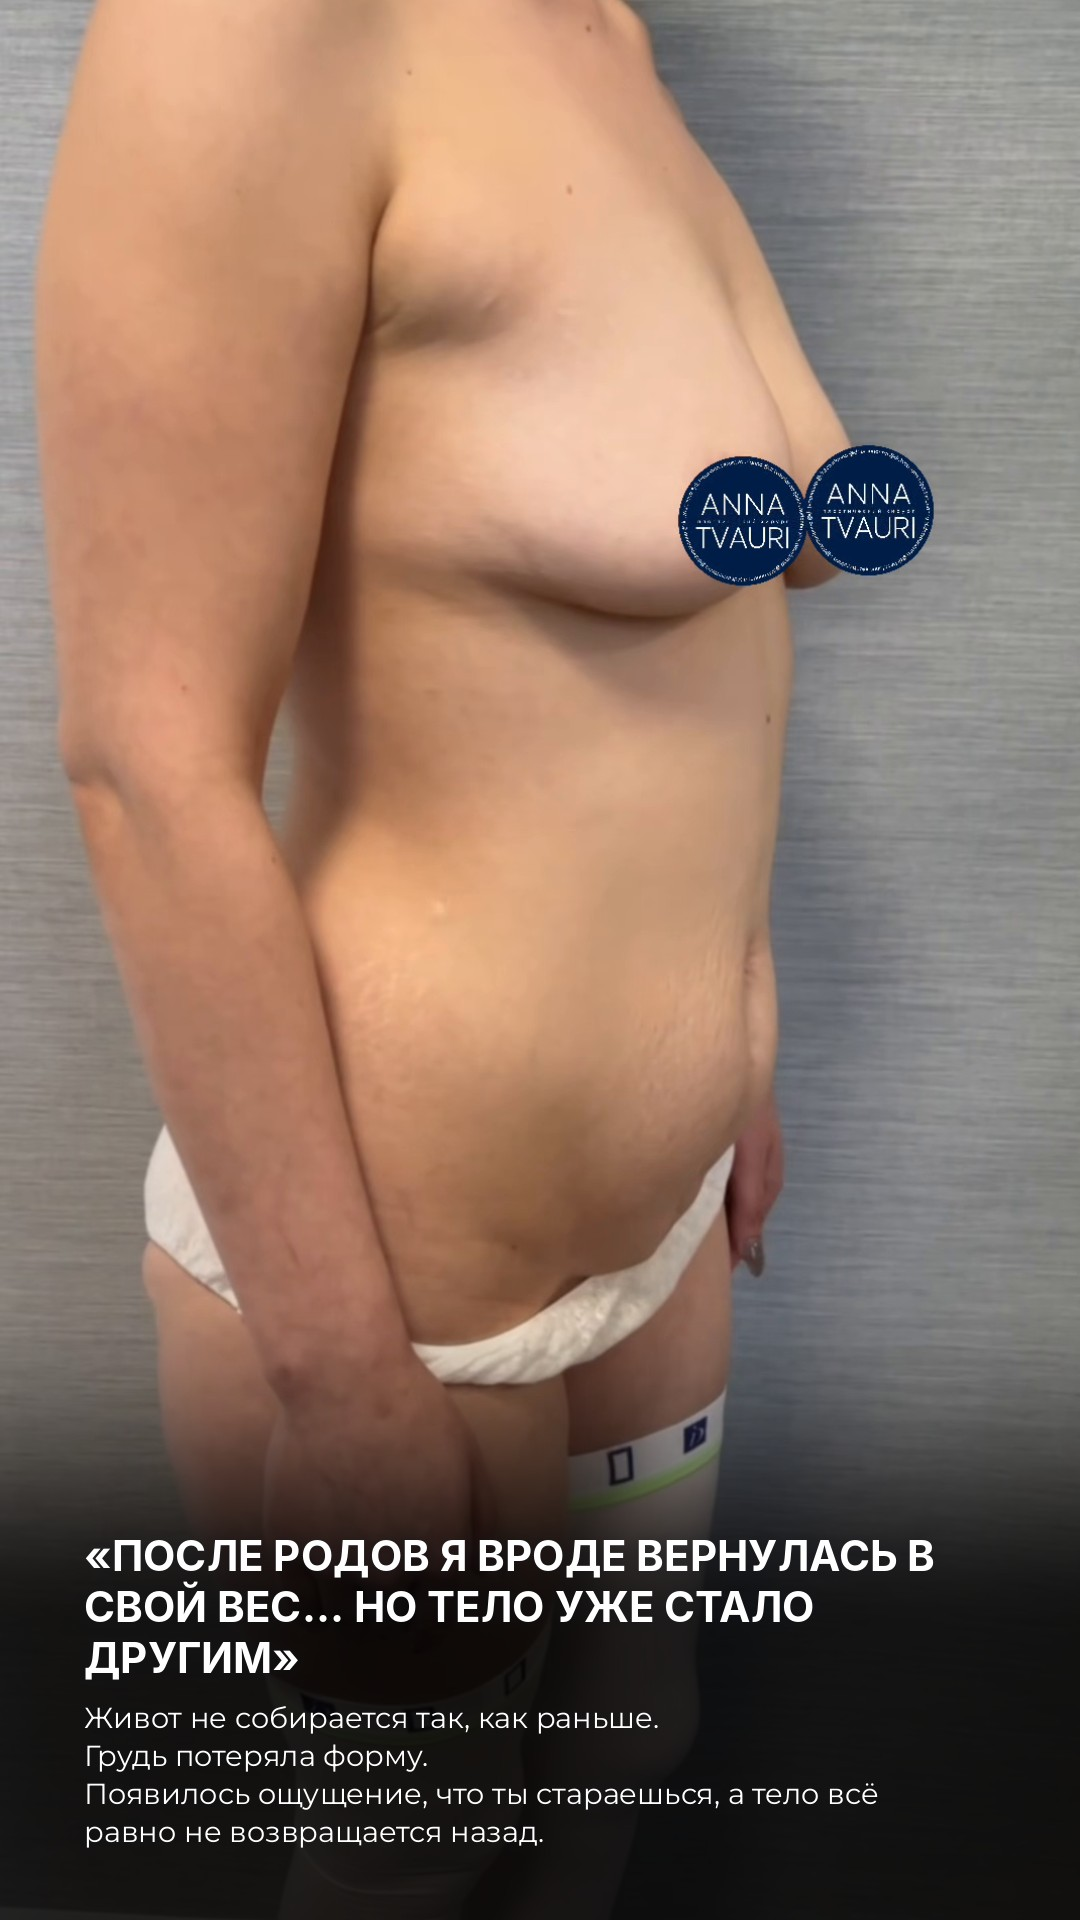
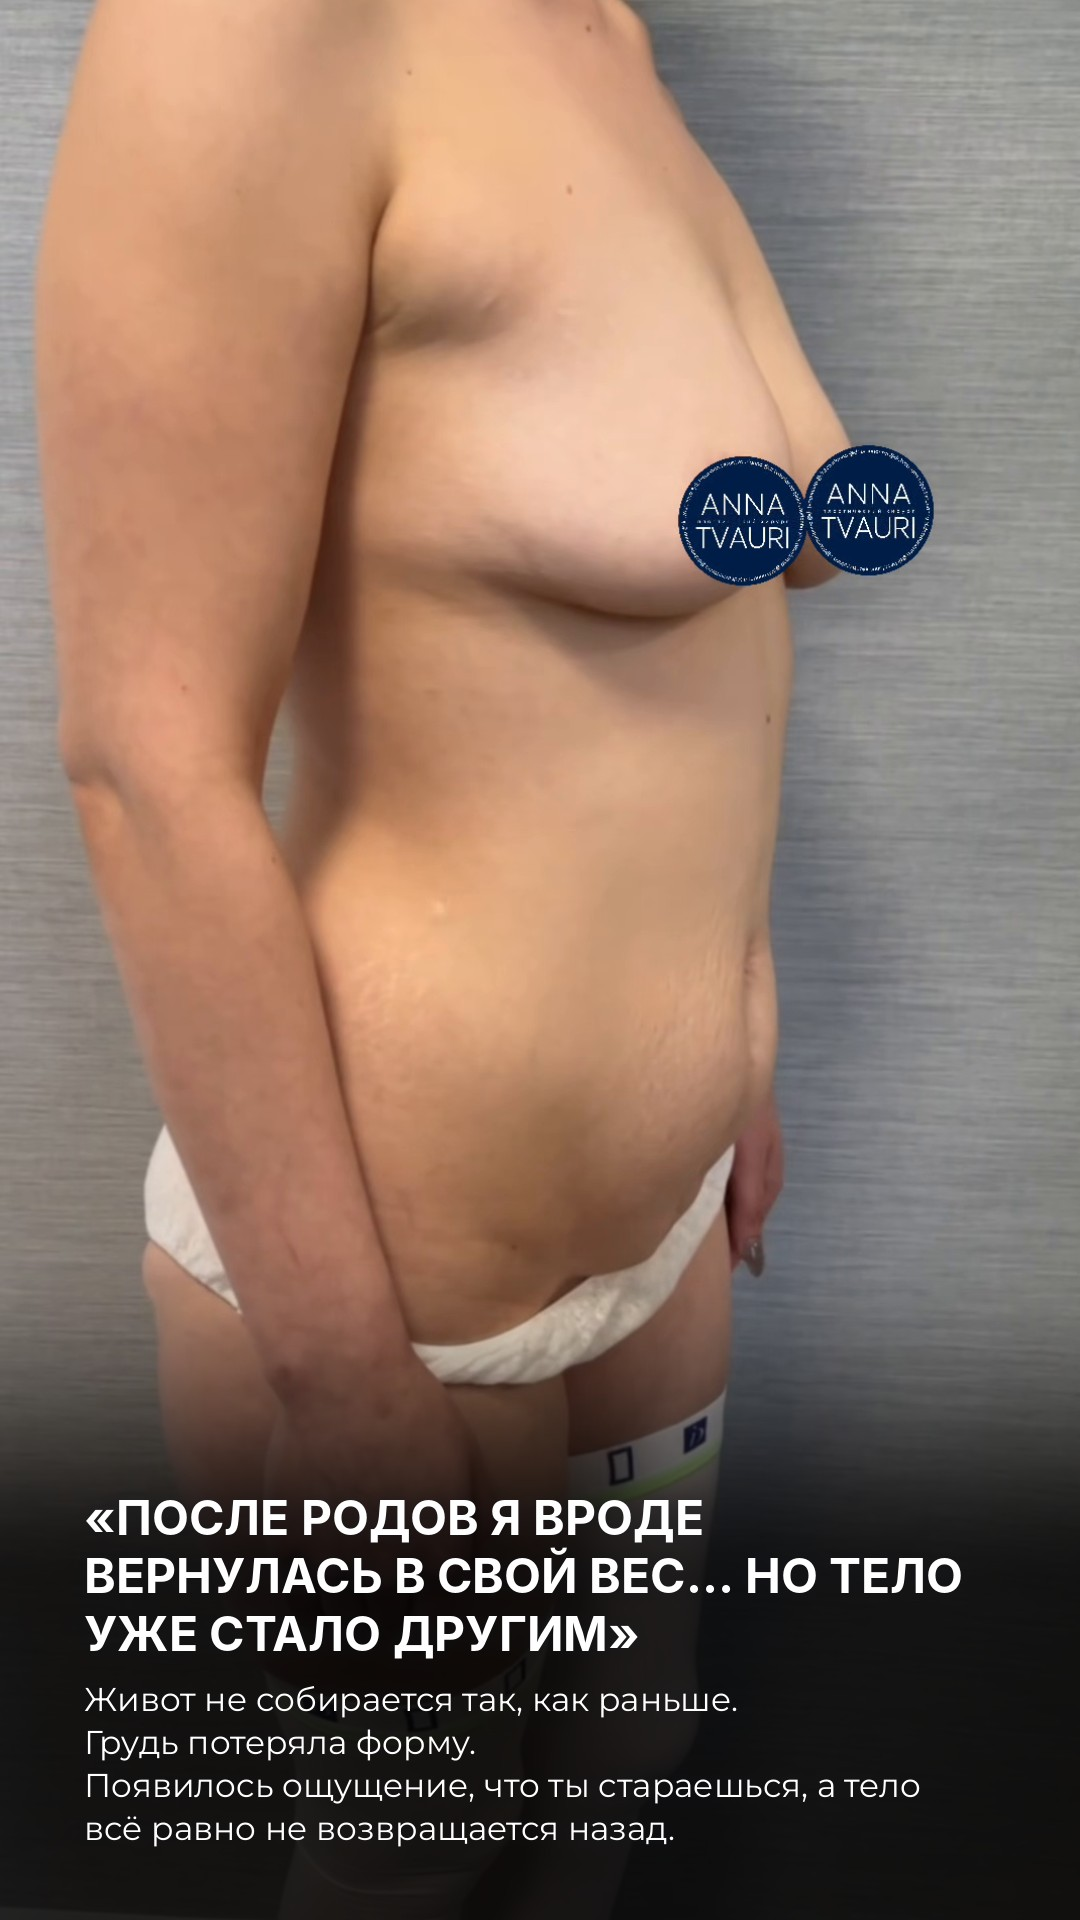
Postpartum stories: bigger text on 1-2, story 3 without fade and uncut, clean collages, text on two separate slides
Claude-Session: https://claude.ai/code/session_01DoBoRz2HUe4yvMBz6dWv4L

Changed region(s): [[0.0611, 0.6875, 0.8861, 0.9688]]

diff --git a/tools/stories_postpartum_abdo_implants.py b/tools/stories_postpartum_abdo_implants.py
@@ -156,7 +156,7 @@ def place(canvas, img, box):
 
 
 # ---------------- video with a static overlay ----------------
-def render_video(name, src, a, dur, overlay, shade, shift=0, subs=None, audio=None, on_frame=None, fill_k=0.6):
+def render_video(name, src, a, dur, overlay, shade, shift=0, subs=None, audio=None, on_frame=None, fill_k=0.6, mute=False):
     out = os.path.join(OUT, name); tmp = out + ".v.mp4"
     ov = np.asarray(overlay, np.float32) / 255.0; oa = ov[..., 3:4]
     p = subprocess.Popen(["ffmpeg", "-v", "error", "-ss", str(a), "-t", str(dur), "-i", os.path.join(DRIVE, src),
@@ -184,6 +184,9 @@ def render_video(name, src, a, dur, overlay, shade, shift=0, subs=None, audio=No
         if i == min(n - 1, int(2.5 * FPS)): Image.fromarray(o).save(out[:-4] + ".jpg", quality=90)
     p.kill(); enc.stdin.close(); enc.wait()
     au = audio or (src, a)
+    if mute:
+        subprocess.run(["ffmpeg", "-v", "error", "-y", "-i", tmp, "-c", "copy", "-an", "-movflags", "+faststart", out], check=True)
+        os.remove(tmp); print("wrote", out, flush=True); return
     subprocess.run(["ffmpeg", "-v", "error", "-y", "-i", tmp, "-ss", str(au[1]), "-t", str(dur), "-i", os.path.join(DRIVE, au[0]),
                     "-map", "0:v", "-map", "1:a?", "-c:v", "copy", "-af", f"loudnorm=I=-16:TP=-1.5,afade=t=out:st={dur - 0.3:.2f}:d=0.3",
                     "-c:a", "aac", "-b:a", "160k", "-shortest", "-movflags", "+faststart", out], check=True)
@@ -255,9 +258,9 @@ NOSHADE = np.zeros((H, 1, 1), np.float32)
 def s1():
     """before video (3/4) full frame; the text low on the legs under a black fade (torso open);
     the poll sticker goes on the wall at the top right"""
-    b = (Block().head("«ПОСЛЕ РОДОВ Я ВРОДЕ ВЕРНУЛАСЬ В СВОЙ ВЕС… НО ТЕЛО УЖЕ СТАЛО ДРУГИМ»", 42, gap=14)
-         .body("Живот не собирается так, как раньше.", 29, gap=0).body("Грудь потеряла форму.", 29, gap=0)
-         .body("Появилось ощущение, что ты стараешься, а тело всё равно не возвращается назад.", 29, gap=0))
+    b = (Block().head("«ПОСЛЕ РОДОВ Я ВРОДЕ ВЕРНУЛАСЬ В СВОЙ ВЕС… НО ТЕЛО УЖЕ СТАЛО ДРУГИМ»", 48, gap=16)
+         .body("Живот не собирается так, как раньше.", 33, gap=0).body("Грудь потеряла форму.", 33, gap=0)
+         .body("Появилось ощущение, что ты стараешься, а тело всё равно не возвращается назад.", 33, gap=0))
     top = H - 70 - b.h; ly = Image.new("RGBA", (W, H), (0, 0, 0, 0)); b.draw(ly, MARGIN, top)
     render_video("01_posle_rodov.mp4", "IMG_0336.MOV", 0.0, 8.1, ly, fade(top + 40, 300, 0.85))
 
@@ -265,10 +268,10 @@ def s1():
 def s2():
     """before (belly) video full frame; the text low on the thighs under a black fade, the belly open"""
     b = (Block().body("У нашей пациентки после родов и кормления ослабла передняя брюшная стенка, был выраженный диастаз, "
-                      "растяжки и старый рубец после полостной операции.", 27, gap=12)
-         .body("И вот здесь очень важно понять:", 27, wght=500, gap=4)
-         .head("ЭТО УЖЕ НЕ ИСТОРИЯ ПРО «ЕЩЁ НЕМНОГО ПОХУДЕТЬ»", 38, gap=10)
-         .body("Некоторые изменения спортом просто не убрать.", 29, wght=600, gap=0))
+                      "растяжки и старый рубец после полостной операции.", 31, gap=14)
+         .body("И вот здесь очень важно понять:", 31, wght=500, gap=6)
+         .head("ЭТО УЖЕ НЕ ИСТОРИЯ ПРО «ЕЩЁ НЕМНОГО ПОХУДЕТЬ»", 44, gap=12)
+         .body("Некоторые изменения спортом просто не убрать.", 33, wght=600, gap=0))
     top = H - 60 - b.h; ly = Image.new("RGBA", (W, H), (0, 0, 0, 0)); b.draw(ly, MARGIN, top)
     render_video("02_diastaz.mp4", "IMG_0337.MOV", 0.0, 9.9, ly, fade(top + 40, 300, 0.85))
 
@@ -311,13 +314,14 @@ def photo_top(img, area_h, crop=None, fade_px=140):
 
 
 def s3():
-    """before 3/4 (chest to hips) on top, what we see marked with short arrows; text and the poll room below on black"""
+    """before 3/4 (chest to hips, full width — the far breast is not cut) on top, what we see marked with short
+    arrows; text and the poll room below on black, no fade"""
     b = (Block().head("ГРУДЬ ТОЖЕ ИЗМЕНИЛАСЬ", 52, gap=14)
          .body("Появилось небольшое опущение и асимметрия.", 31, gap=8)
          .body("При этом пациентка не хотела дополнительных разрезов на груди.", 31, gap=8)
          .body("Поэтому подтяжку мы не делали.", 32, wght=600, gap=0))
     poll_h = 280; top = H - 50 - poll_h - b.h
-    cv, m = photo_top(photo("IMG_8390.JPG"), top - 30, crop=(0, 330, 1080, 1460))
+    cv, m = photo_top(photo("IMG_8390.JPG"), top - 30, crop=(0, 300, 1080, 300 + top - 30), fade_px=1)   # 1:1, full width
     ly = Image.new("RGBA", (W, H), (0, 0, 0, 0)); b.draw(ly, MARGIN, top)
     lab = pill("наше до", 28); ly.alpha_composite(lab, (MARGIN - 10, 60))
     finding(ly, "опущение груди", m(540, 820), "DL")                    # lower pole of the near breast (sticker 616, 700)
@@ -364,46 +368,39 @@ def s5():
                  subs=PillSubs(words, y=top + b.h + 70, outline=True))   # white edge: navy pill on navy scrubs
 
 
-# the clinic's before/after collages (after on top, before below, on black): the whole collage on top, short arrows
-# with what we see on the before half, the text below it on black — nothing written over the bodies
-def collage_story(name, out, head, low, notes, head_size=44):
-    t = Block().head(head, head_size, gap=18); t = low(t)
-    top = H - 60 - t.h
-    cv, m = photo_top(photo(name).resize((W, H), Image.LANCZOS), top - 30, fade_px=1)
-    ly = Image.new("RGBA", (W, H), (0, 0, 0, 0)); t.draw(ly, MARGIN, top)
-    for text, target, side in notes: finding(ly, text, m(*target), side, 24)
-    cv.alpha_composite(ly); save_jpg(cv, out)
+# the clinic's before/after collages: as they are, no text, no arrows
+def s6(): save_jpg(photo("IMG_8393.JPG").resize((W, H), Image.LANCZOS), "06_kollazh_pryamo.jpg")
+def s7(): save_jpg(photo("IMG_8395.JPG").resize((W, H), Image.LANCZOS), "07_kollazh_3-4.jpg")
+def s8(): save_jpg(photo("IMG_8396.JPG").resize((W, H), Image.LANCZOS), "08_kollazh_sboku.jpg")
 
 
-def s6():
-    collage_story("IMG_8393.JPG", "06_ne_v_usiliyah.jpg",
-                  "И ВОТ ЧТО ХОЧЕТСЯ СКАЗАТЬ ЖЕНЩИНАМ, КОТОРЫЕ СМОТРЯТ НА СЕБЯ ПОСЛЕ РОДОВ И ДУМАЮТ:",
-                  lambda b: b.body("«Наверное, я просто недостаточно стараюсь»", 28, gap=0).body("«Надо ещё похудеть»", 28, gap=0)
-                  .body("«Может, спорт всё-таки поможет»", 28, gap=14).body("Иногда дело уже не в усилиях.", 30, wght=600, gap=4)
-                  .body("Просто есть изменения тканей, которые требуют совсем другого подхода.", 28, gap=0),
-                  [("опущение груди", (800, 1225), "UR"), ("диастаз", (450, 1470), "L"),
-                   ("старый рубец", (495, 1715), "L"), ("растяжки", (690, 1765), "R")], head_size=38)
+def s9():
+    """the message on its own slide: the surgeon operating (C0585, slow 4K), text low under the usual black fade"""
+    b = (Block().head("И ВОТ ЧТО ХОЧЕТСЯ СКАЗАТЬ ЖЕНЩИНАМ, КОТОРЫЕ СМОТРЯТ НА СЕБЯ ПОСЛЕ РОДОВ И ДУМАЮТ:", 44, gap=18)
+         .body("«Наверное, я просто недостаточно стараюсь»", 32, gap=2).body("«Надо ещё похудеть»", 32, gap=2)
+         .body("«Может, спорт всё-таки поможет»", 32, gap=22).body("Иногда дело уже не в усилиях.", 35, wght=600, gap=8)
+         .body("Просто есть изменения тканей, которые требуют совсем другого подхода.", 32, gap=0))
+    top = H - 80 - b.h; ly = Image.new("RGBA", (W, H), (0, 0, 0, 0)); b.draw(ly, MARGIN, top)
+    render_video("09_ne_v_usiliyah.mp4", "C0585.MP4", 0.0, 8.1, ly, fade(top + 40, 420, 0.85), mute=True)
 
 
-def s7():
-    collage_story("IMG_8395.JPG", "07_vy_dumaete.jpg", "ЕСЛИ ВЫ СМОТРИТЕ НА НАШЕ ДО И ДУМАЕТЕ:",
-                  lambda b: b.body("«У меня очень похоже»", 28, gap=0).body("«Живот так и не восстановился после родов»", 28, gap=0)
-                  .body("«Грудь стала другой»", 28, gap=0).body("«Хочу снова чувствовать себя собой»", 28, gap=14)
-                  .body("приходите на консультацию", 32, wght=600, gap=0),
-                  [("опущение груди", (600, 1265), "UL"), ("избыток кожи", (430, 1720), "L"),
-                   ("растяжки", (790, 1700), "R")])
+def s10():
+    """the invitation on its own slide: photo of the surgeon at work (DSC00932), text low under the usual black fade"""
+    cv = photo("DSC00932.JPG").resize((W, H), Image.LANCZOS)
+    b = (Block().head("ЕСЛИ ВЫ СМОТРИТЕ НА НАШЕ ДО И ДУМАЕТЕ:", 44, gap=14)
+         .body("«У меня очень похоже»", 31, gap=0).body("«Живот так и не восстановился после родов»", 31, gap=0)
+         .body("«Грудь стала другой»", 31, gap=0).body("«Хочу снова чувствовать себя собой»", 31, gap=18)
+         .head("ПРИХОДИТЕ НА КОНСУЛЬТАЦИЮ", 44, gap=10)
+         .body("Посмотрим ваше ДО, состояние тканей и обсудим, какой объём коррекции имеет смысл именно в вашем случае.", 29, gap=14)
+         .body("Для записи напишите в Direct «КОНСУЛЬТАЦИЯ» или свяжитесь с нами по телефону", 29, gap=8)
+         .plate("+7 926 636 30 00", 32, wght=600, gap=8)
+         .body("в WhatsApp, Telegram или MAX.", 29, gap=0))
+    top = H - 70 - b.h
+    cv = Image.fromarray((np.asarray(cv, np.float32) * (1 - fade(top + 60, 420, 0.88))).astype(np.uint8)).convert("RGBA")
+    ly = Image.new("RGBA", (W, H), (0, 0, 0, 0)); b.draw(ly, MARGIN, top); cv.alpha_composite(ly)
+    save_jpg(cv, "10_konsultaciya.jpg")
 
 
-def s8():
-    collage_story("IMG_8396.JPG", "08_konsultaciya.jpg", "ПРИХОДИТЕ НА КОНСУЛЬТАЦИЮ",
-                  lambda b: b.body("Посмотрим ваше ДО, состояние тканей и обсудим, какой объём коррекции имеет смысл "
-                                   "именно в вашем случае.", 28, gap=12)
-                  .body("Для записи напишите в Direct «КОНСУЛЬТАЦИЯ» или свяжитесь с нами по телефону", 28, gap=8)
-                  .plate("+7 926 636 30 00", 30, wght=600, gap=8)
-                  .body("в WhatsApp, Telegram или MAX.", 28, gap=0),
-                  [("опущение груди", (865, 1315), "DL"), ("слабая брюшная стенка", (815, 1640), "UR")], head_size=48)
-
-
-STORIES = {1: s1, 2: s2, 3: s3, 4: s4, 5: s5, 6: s6, 7: s7, 8: s8}
+STORIES = {1: s1, 2: s2, 3: s3, 4: s4, 5: s5, 6: s6, 7: s7, 8: s8, 9: s9, 10: s10}
 for k, fn in STORIES.items():
     if not ONLY or k in ONLY: fn()

diff --git a/stories_postpartum_abdo_implants/README.md b/stories_postpartum_abdo_implants/README.md
@@ -1,11 +1,11 @@
 # Сторис: после родов — абдоминопластика с ушиванием диастаза + анатомические импланты 375 мл
 
-8 сторис 1080×1920. Рендер: `python3 tools/stories_postpartum_abdo_implants.py <папка с drive/> stories_postpartum_abdo_implants [номера]`
+10 сторис 1080×1920. Рендер: `python3 tools/stories_postpartum_abdo_implants.py <папка с drive/> stories_postpartum_abdo_implants [номера]`
 (материалы из папки Drive 1NRulBM4t9DX7sjE_HrD-S7hxp5PMdH6f). Прежнее оформление: Inter Bold заглавными + Montserrat,
 белый текст с мягкой тенью, чёрное затемнение под ним, текст статичный, без смайликов. Текст не лежит на корпусе:
 на видео он внизу на ногах, фото и коллажи стоят сверху на своём чёрном фоне, текст под ними. На фото ДО короткие
 тонкие белые стрелки с синими подписями «что имеем»: опущение груди, асимметрия, диастаз, старый рубец, растяжки,
-избыток кожи, слабая брюшная стенка. Фото-сторис — JPG, с видео — MP4.
+(на 3-й сторис). Фото-сторис — JPG, с видео — MP4.
 
 | № | Файл | Фон | Текст |
 |---|------|-----|-------|
@@ -14,11 +14,13 @@
 | 3 | 03_grud.jpg | ДО груди 3/4 (IMG_8390), плашка «наше до» и две короткие стрелки к груди | ГРУДЬ ТОЖЕ ИЗМЕНИЛАСЬ…; внизу место под опрос «Рубцы / Сама операция» |
 | 4 | 04_dve_zony.jpg | операционная | МЫ РЕШИЛИ РАБОТАТЬ СРАЗУ С ДВУМЯ ЗОНАМИ; две операции на синих плашках (без «и») |
 | 5 | 05_pervye_sutki.mp4 | первые сутки, голос хирурга; стикеры клиники на сосках (ведутся по видео оптическим потоком) | ПЕРВЫЕ СУТКИ / Это ещё ранний результат… |
-| 6 | 06_ne_v_usiliyah.jpg | коллаж прямо (IMG_8393) | И ВОТ ЧТО ХОЧЕТСЯ СКАЗАТЬ ЖЕНЩИНАМ…, три мысли, вывод |
-| 7 | 07_vy_dumaete.jpg | коллаж 3/4 (IMG_8395) | ЕСЛИ ВЫ СМОТРИТЕ НА НАШЕ ДО И ДУМАЕТЕ: четыре мысли, приходите на консультацию |
-| 8 | 08_konsultaciya.jpg | коллаж сбоку (IMG_8396) | ПРИХОДИТЕ НА КОНСУЛЬТАЦИЮ, что посмотрим, как записаться, телефон на плашке |
+| 6 | 06_kollazh_pryamo.jpg | коллаж клиники спереди (IMG_8393) | без текста |
+| 7 | 07_kollazh_3-4.jpg | коллаж клиники в 3/4 (IMG_8395) | без текста |
+| 8 | 08_kollazh_sboku.jpg | коллаж клиники сбоку (IMG_8396) | без текста |
+| 9 | 09_ne_v_usiliyah.mp4 | хирург на операции (C0585, без звука) | И ВОТ ЧТО ХОЧЕТСЯ СКАЗАТЬ ЖЕНЩИНАМ…, три мысли, «Иногда дело уже не в усилиях» |
+| 10 | 10_konsultaciya.jpg | хирург на операции (DSC00932) | ЕСЛИ ВЫ СМОТРИТЕ НА НАШЕ ДО И ДУМАЕТЕ… ПРИХОДИТЕ НА КОНСУЛЬТАЦИЮ, телефон на плашке |
 
-Коллажи — присланные клиникой, целиком (после сверху, до снизу), текст под коллажем на чёрном. Место под опрос на
+Коллажи — присланные клиникой, как есть, без текста и стрелок; текст вынесен на отдельные слайды 9 и 10. Место под опрос на
 1-й сторис — справа вверху на стене.
 Стикер — присланный круглый `drive/sticker_navy.png`, вырезан по кругу.
 
